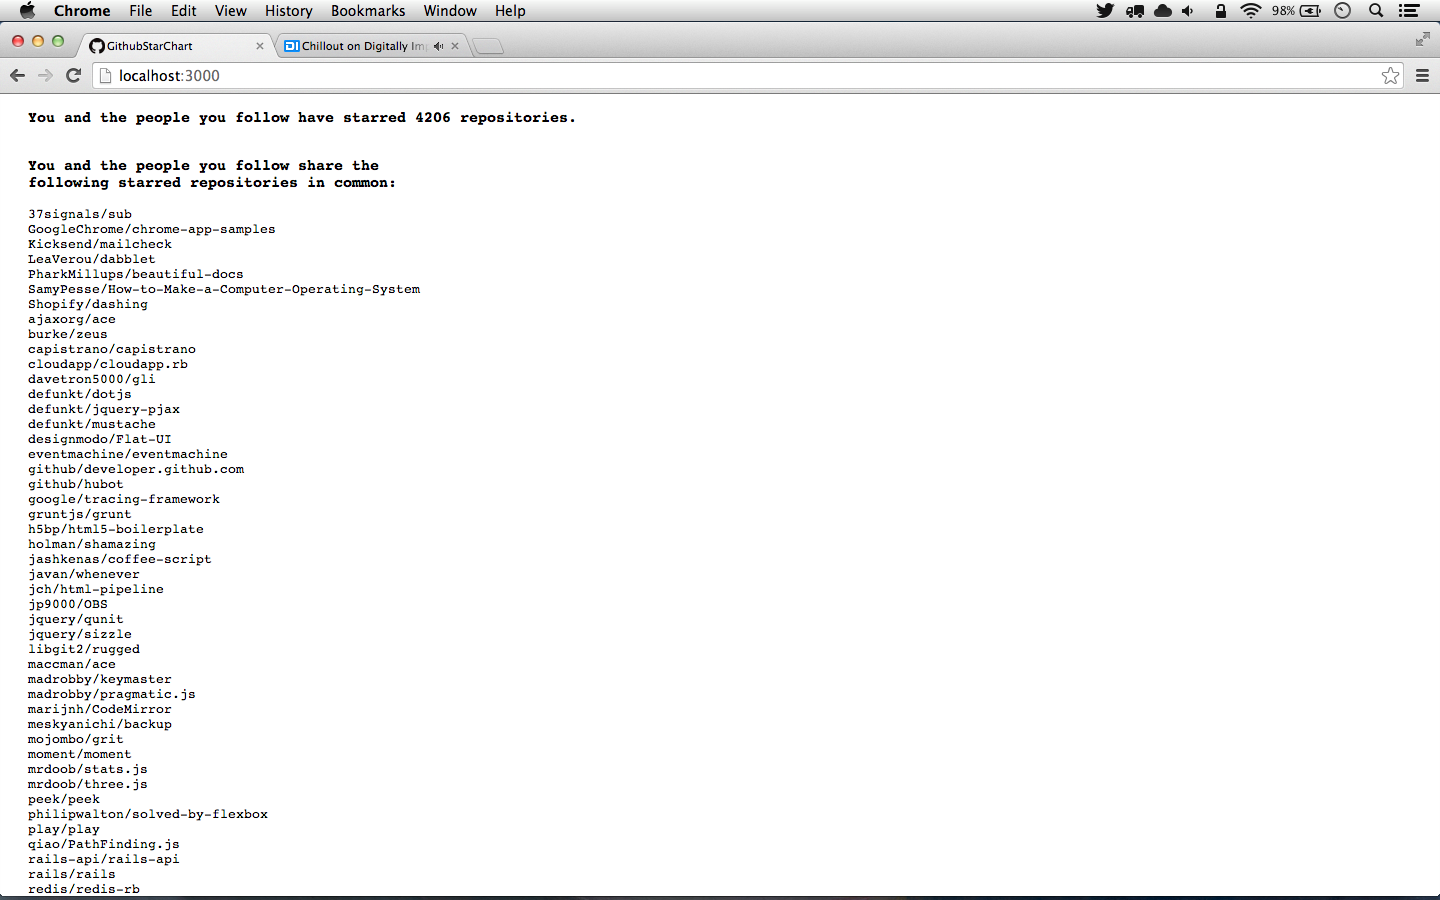
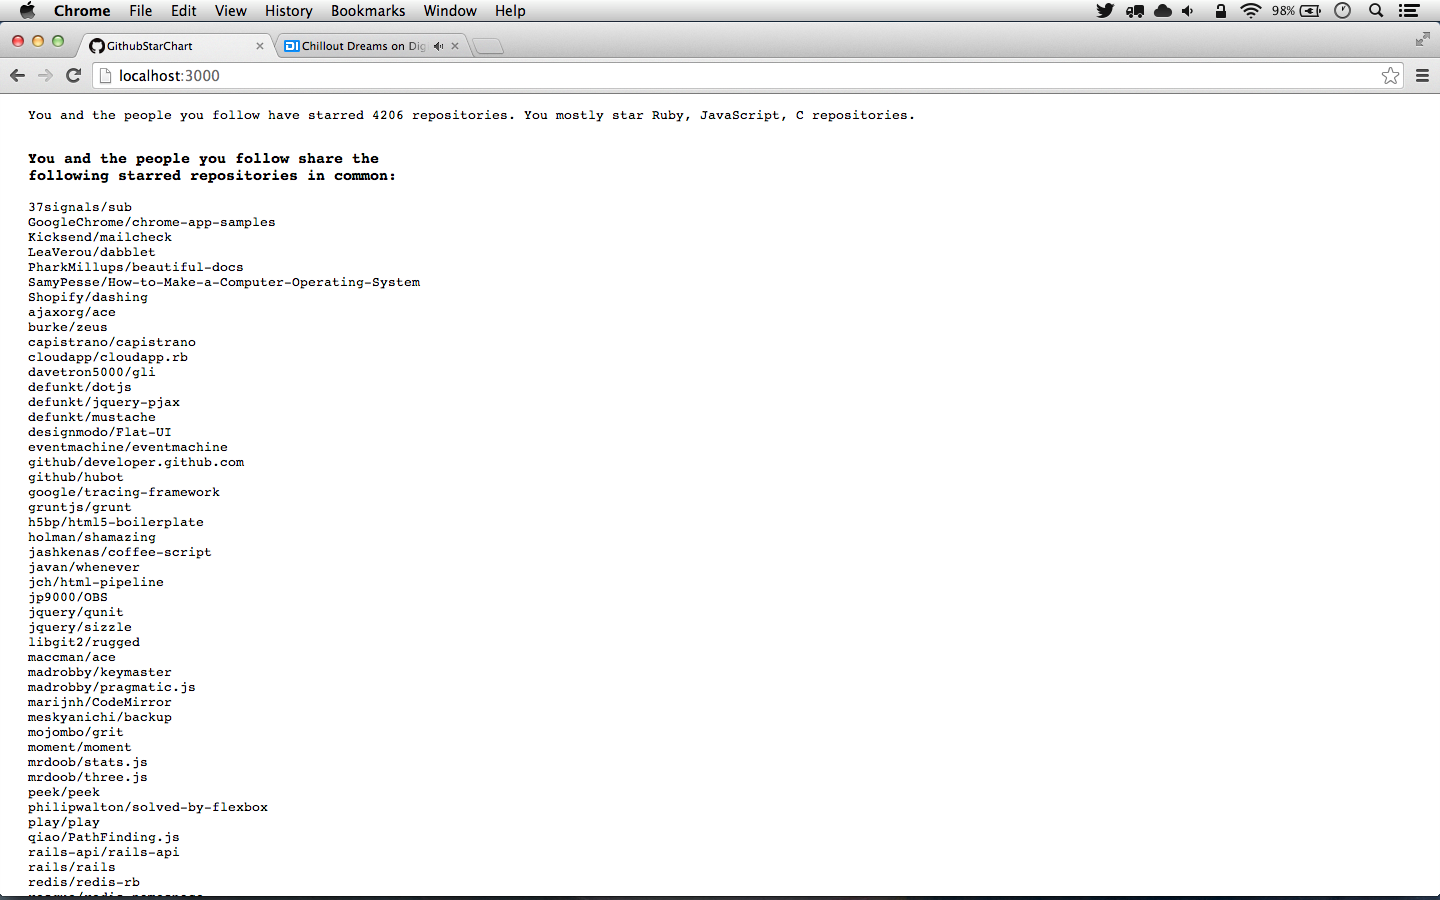
show top 3 languages by number of repos starred
i am very tired. i dont know about this project. theres not much here
yet. maybe that is why it fails to excite me more. maybe i expect too
much out out of the little effort ive put into it. im just lazy,
clearly. i think that best describes it. its strange to imagine things,
its so easy to imagine something even if you cant fully see it, but
imagine this thing and just pretend that it is amazing. you cant really
see what it is or does but you can imagine people using it and them
being blown away and amazed by it. can you work backwards from that type
of expectation and reception to put a face and thing together that
accomplishes want you want it to accomplish. i think ive given up trying
to impress people with things i make. or at least id like to think i
have and maybe i still do subconsciously but ill deny it. impressing
people is a stupid goal. maybe its the making something better or making
something so good that the impressiveness is a byproduct. what the hell
do i know. i have never made anything impressive and probably never
  will.

Changed region(s): [[0.0, 0.1244, 0.5312, 0.9956], [0.5625, 0.1244, 0.625, 0.1556], [0.25, 0.0311, 0.2812, 0.0622]]

diff --git a/app/models/git_hub_user.rb b/app/models/git_hub_user.rb
@@ -23,6 +23,15 @@ class GitHubUser
         map { |u| fetch(u.login) }
     end
 
+    def top_starred_languages(login)
+      user = fetch(login)
+      user[:starred].group_by { |repo| repo[:language] }.
+        map { |lang| { (lang[0] || 'Undefined') => lang[1].length } }.
+        sort_by { |lang| lang[lang.keys.first] }.
+        reverse[0..2].
+        collect { |lang| lang.keys.first }
+    end
+
     private
 
     def octokit

diff --git a/app/controllers/star_charts_controller.rb b/app/controllers/star_charts_controller.rb
@@ -1,8 +1,9 @@
 class StarChartsController < ApplicationController
-  def index
+  def index 
     target = 'joeyw'
     users = GitHubUser.fetch_user_and_followingers(target)
     @starred = StarCharter.combine_starred(*users)
     @shared_starred = StarCharter.shared_starred(target, *users).sort
+    @top_starred_languages = GitHubUser.top_starred_languages(target)
   end
 end
